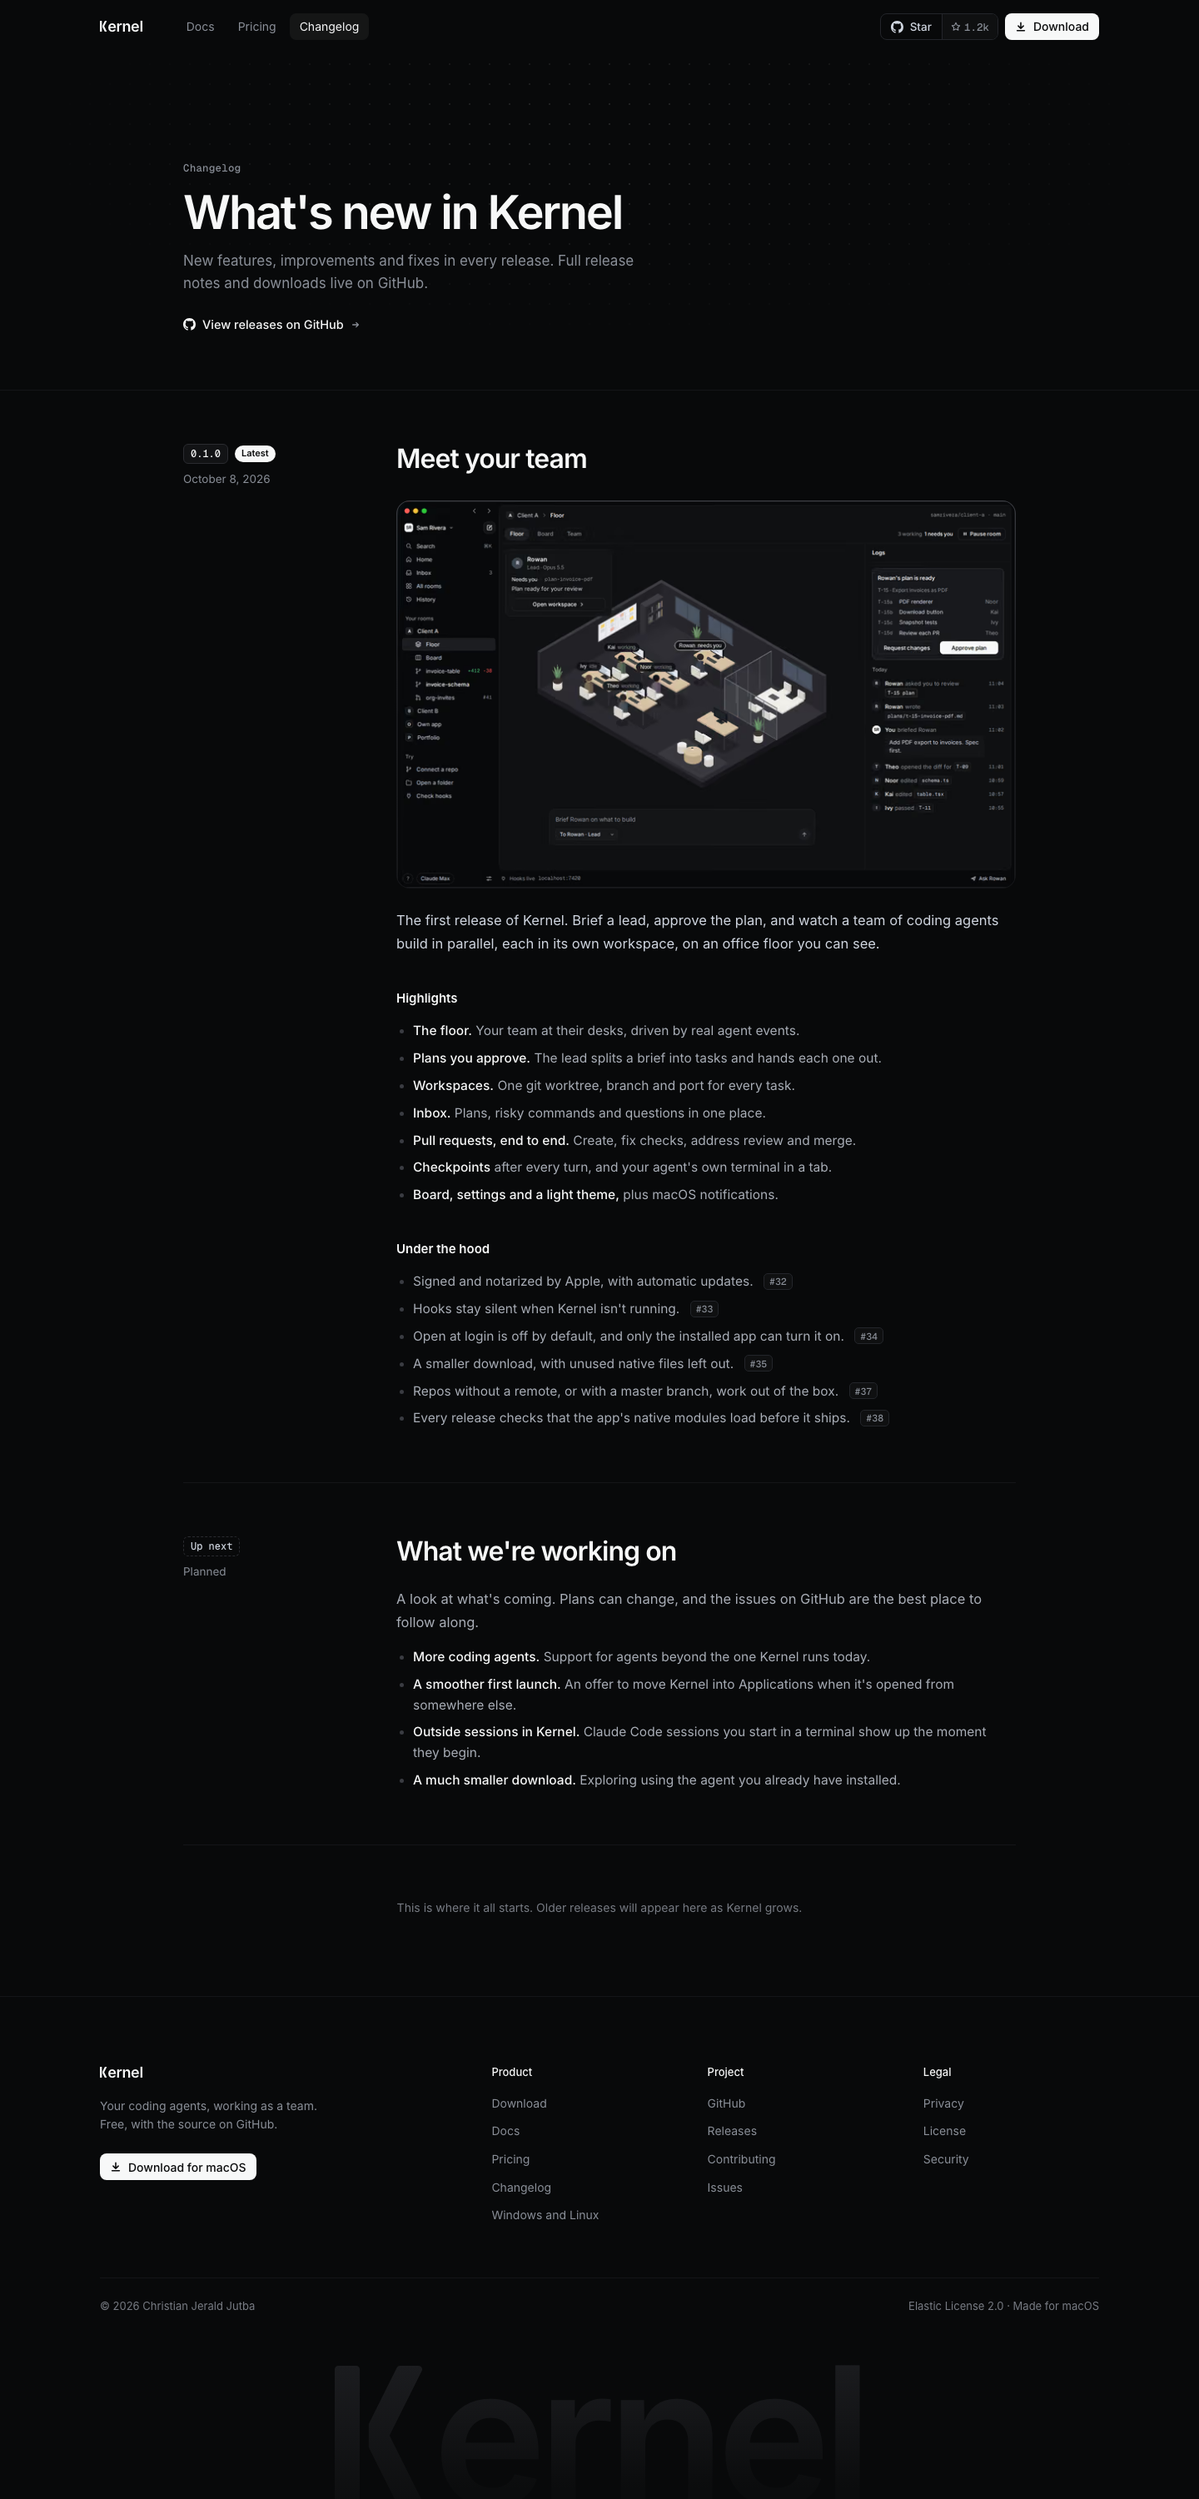
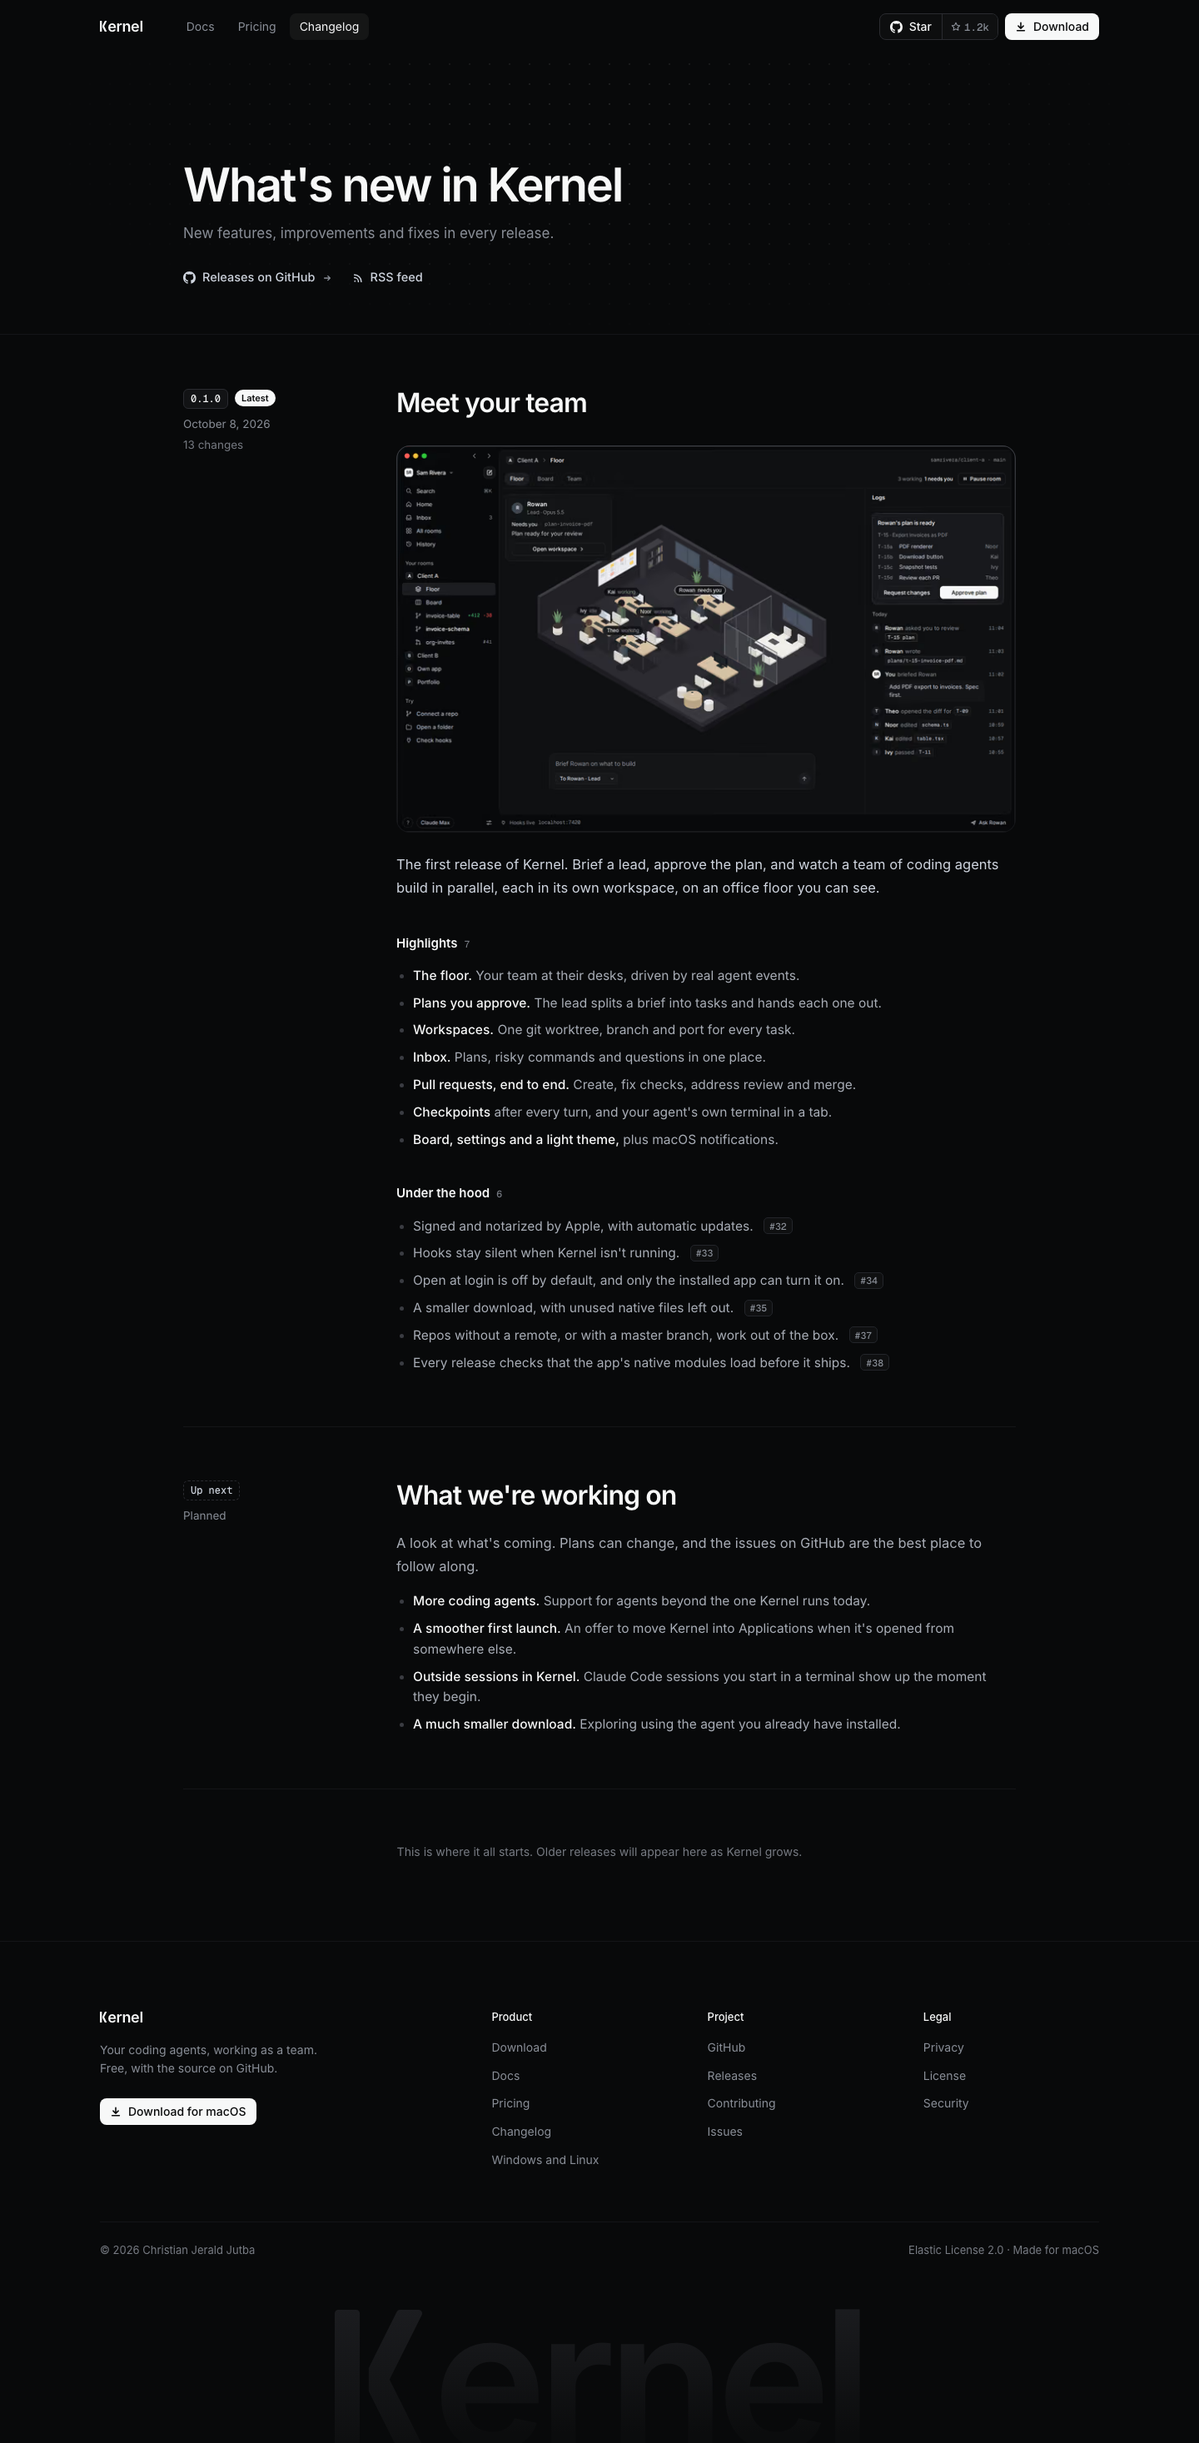
feat(site): a tighter changelog with an RSS feed, and a matching Star button
Changelog:
- A section longer than eight changes shows six and folds the rest behind "Show N more", a native details element, so a long release no longer runs for screens. The page is about 40 percent of its old height.
- On wide screens a release's version and date stay beside it while you scroll, with its number of changes. The version links to its own entry.
- Section headings show their counts.
- The header drops its label and says one line, with links to the releases on GitHub and a new RSS feed at /changelog/rss.xml, which every changelog page advertises.

Nav: the Star button takes the secondary button style at Download's size and font, so the two read as a pair.

diff --git a/site/components/changelog/ChangeList.tsx b/site/components/changelog/ChangeList.tsx
@@ -1,28 +1,61 @@
 import { pullUrl } from '@/lib/links'
 import type { ChangeItem } from '@/lib/schema'
 
-export function ChangeList({ items }: { items: ChangeItem[] }) {
+/** How many changes a section shows before the rest fold behind "Show N more". */
+const SHOWN = 6
+
+function Item({ item }: { item: ChangeItem }) {
   return (
-    <ul className="mt-4">
-      {items.map((item) => (
-        <li key={item.text} className="mt-2 text-list text-ink-3 cl-bullet">
-          {item.lead ? <b className="font-medium text-ink">{item.lead}</b> : null}
-          {item.lead ? ' ' : null}
-          {item.text}
-          {item.pr ? ' ' : null}
-          {item.pr ? (
-            <a
-              href={pullUrl(item.pr)}
-              target="_blank"
-              rel="noopener"
-              aria-label={`Pull request #${item.pr}`}
-              className="ml-2 inline-flex h-5 items-center rounded-prchip border border-line-strong bg-surface-2 px-1.5 align-nudge font-mono text-tag leading-normal font-medium text-muted hover:border-edge-hover hover:text-ink"
-            >
-              #{item.pr}
-            </a>
-          ) : null}
-        </li>
-      ))}
-    </ul>
+    <li className="mt-2 text-list text-ink-3 cl-bullet">
+      {item.lead ? <b className="font-medium text-ink">{item.lead}</b> : null}
+      {item.lead ? ' ' : null}
+      {item.text}
+      {item.pr ? ' ' : null}
+      {item.pr ? (
+        <a
+          href={pullUrl(item.pr)}
+          target="_blank"
+          rel="noopener"
+          aria-label={`Pull request #${item.pr}`}
+          className="ml-2 inline-flex h-5 items-center rounded-prchip border border-line-strong bg-surface-2 px-1.5 align-nudge font-mono text-tag leading-normal font-medium text-muted hover:border-edge-hover hover:text-ink"
+        >
+          #{item.pr}
+        </a>
+      ) : null}
+    </li>
+  )
+}
+
+/**
+ * A section's changes. Past `SHOWN`, the rest wait behind a "Show N more" button, a native details element, so it
+ * needs no script and the browser's find in page still reaches the folded changes. `fold={false}` lists them all.
+ */
+export function ChangeList({ items, fold = true }: { items: ChangeItem[]; fold?: boolean }) {
+  const folds = fold && items.length > SHOWN + 2
+  const shown = folds ? items.slice(0, SHOWN) : items
+  const rest = folds ? items.slice(SHOWN) : []
+  return (
+    <>
+      <ul className="mt-4">
+        {shown.map((item) => (
+          <Item key={item.text} item={item} />
+        ))}
+      </ul>
+      {rest.length ? (
+        <details className="group">
+          <summary className="mt-4 inline-flex h-8 cursor-pointer items-center gap-1.5 rounded-md border border-line-strong px-3 text-ui font-medium text-ink-2 transition-colors group-open:hidden hover:border-edge-hover hover:text-ink">
+            Show {rest.length} more
+            <svg width="12" height="12" viewBox="0 0 16 16" aria-hidden="true" fill="none" stroke="currentColor" strokeWidth="1.6" strokeLinecap="round" strokeLinejoin="round" className="text-muted">
+              <path d="m4 6 4 4 4-4" />
+            </svg>
+          </summary>
+          <ul>
+            {rest.map((item) => (
+              <Item key={item.text} item={item} />
+            ))}
+          </ul>
+        </details>
+      ) : null}
+    </>
   )
 }

diff --git a/site/components/changelog/ReleaseEntry.tsx b/site/components/changelog/ReleaseEntry.tsx
@@ -6,11 +6,14 @@ import { ChangeList } from './ChangeList'
 
 const versionPill = 'inline-flex h-6 items-center rounded-chip border px-2 font-mono text-micro leading-normal font-medium'
 
-/** The two-column entry shared by releases and Up next: meta on the left, the notes on the right. */
+/**
+ * The two-column entry shared by releases and Up next: meta on the left, the notes on the right. On wide screens the
+ * meta stays in view beside a long entry, under the sticky nav.
+ */
 export function EntryShell({ titleId, meta, children }: { titleId: string; meta: ReactNode; children: ReactNode }) {
   return (
     <article aria-labelledby={titleId} className="grid grid-entry gap-14 border-b border-line-faint py-16 max-nav:grid-cols-1 max-nav:gap-4">
-      <div>{meta}</div>
+      <div className="nav:sticky nav:top-24 nav:self-start">{meta}</div>
       <div>{children}</div>
     </article>
   )
@@ -26,13 +29,17 @@ export function VersionPill({ next, children }: { next?: boolean; children: Reac
 
 export function ReleaseEntry({ release, latest }: { release: Release; latest: boolean }) {
   const titleId = `v${release.version.replaceAll('.', '')}`
+  const changes = release.sections.reduce((n, s) => n + s.items.length, 0)
   return (
     <EntryShell
       titleId={titleId}
       meta={
         <>
           <div className="flex items-center gap-2">
-            <VersionPill>{release.version}</VersionPill>
+            {/* The version links to its own entry, so a release can be shared. */}
+            <a href={`#${titleId}`} aria-label={`Link to Kernel ${release.version}`} className="rounded-chip transition-opacity hover:opacity-80">
+              <VersionPill>{release.version}</VersionPill>
+            </a>
             {latest ? (
               <span className="inline-flex h-5 items-center rounded-pill bg-ink px-2 text-badge font-semibold text-canvas">
                 Latest
@@ -42,10 +49,13 @@ export function ReleaseEntry({ release, latest }: { release: Release; latest: bo
           <time dateTime={release.date} className="mt-2 block text-label text-muted">
             {formatDate(release.date)}
           </time>
+          <p className="mt-1 text-label text-faint">
+            {changes} {changes === 1 ? 'change' : 'changes'}
+          </p>
         </>
       }
     >
-      <h2 id={titleId} className="text-entry-title">
+      <h2 id={titleId} className="scroll-mt-8 text-entry-title">
         {release.title}
       </h2>
       {release.image ? (
@@ -59,7 +69,10 @@ export function ReleaseEntry({ release, latest }: { release: Release; latest: bo
       {release.intro ? <p className="mt-6 text-intro text-ink-2">{release.intro}</p> : null}
       {release.sections.map((section) => (
         <section key={section.title}>
-          <h3 className="mt-10 text-body font-semibold">{section.title}</h3>
+          <h3 className="mt-10 flex items-baseline gap-2 text-body font-semibold">
+            {section.title}
+            <span className="font-mono text-tag font-medium text-faint">{section.items.length}</span>
+          </h3>
           <ChangeList items={section.items} />
         </section>
       ))}

diff --git a/site/components/changelog/ChangelogHeader.tsx b/site/components/changelog/ChangelogHeader.tsx
@@ -1,35 +1,43 @@
-import { Eyebrow } from '@/components/ui/Eyebrow'
 import { ArrowIcon, GitHubIcon } from '@/components/ui/icons'
 import { RELEASES_URL } from '@/lib/links'
+
+function FeedIcon() {
+  return (
+    <svg width="14" height="14" viewBox="0 0 16 16" aria-hidden="true" fill="none" stroke="currentColor" strokeWidth="1.6" strokeLinecap="round">
+      <path d="M3 3.5a9.5 9.5 0 0 1 9.5 9.5M3 7.5A5.5 5.5 0 0 1 8.5 13" />
+      <circle cx="3.75" cy="12.25" r="1" fill="currentColor" stroke="none" />
+    </svg>
+  )
+}
+
+const link = 'inline-flex items-center gap-2 text-link font-medium text-ink-2 transition-colors hover:text-white'
 
 /** `page` and `pages` add a page count under the lead on pages after the first. */
 export function ChangelogHeader({ page = 1, pages = 1 }: { page?: number; pages?: number }) {
   return (
-    <section id="top" aria-labelledby="changelog-title" className="relative border-b border-line-faint pt-32 pb-16">
+    <section id="top" aria-labelledby="changelog-title" className="relative border-b border-line-faint pt-32 pb-14">
       <div aria-hidden="true" className="pointer-events-none absolute inset-x-0 top-0 h-130 bg-dots-hero" />
       <div className="relative mx-auto max-w-262 px-6">
-        <Eyebrow>Changelog</Eyebrow>
-        <h1 id="changelog-title" className="mt-4 text-changelog-title">
+        <h1 id="changelog-title" className="text-changelog-title">
           What&apos;s new in Kernel
         </h1>
-        <p className="mt-4 max-w-140 text-lead text-muted">
-          New features, improvements and fixes in every release. Full release notes and downloads live on GitHub.
-        </p>
+        <p className="mt-4 max-w-140 text-lead text-muted">New features, improvements and fixes in every release.</p>
         {page > 1 ? (
           <p className="mt-3 text-ui text-faint">
             Page {page} of {pages}
           </p>
         ) : null}
-        <a
-          href={RELEASES_URL}
-          target="_blank"
-          rel="noopener"
-          className="mt-6 inline-flex items-center gap-2 text-link font-medium text-ink hover:text-white"
-        >
-          <GitHubIcon size={15} />
-          View releases on GitHub
-          <ArrowIcon className="text-muted" />
-        </a>
+        <div className="mt-7 flex flex-wrap items-center gap-x-6 gap-y-3">
+          <a href={RELEASES_URL} target="_blank" rel="noopener" className={link}>
+            <GitHubIcon size={15} />
+            Releases on GitHub
+            <ArrowIcon className="text-muted" />
+          </a>
+          <a href="/changelog/rss.xml" className={link}>
+            <FeedIcon />
+            RSS feed
+          </a>
+        </div>
       </div>
     </section>
   )

diff --git a/site/app/changelog/rss.xml/route.ts b/site/app/changelog/rss.xml/route.ts
@@ -1,0 +1,53 @@
+import { changelogPageHref, publishedChangelog, RELEASES_PER_PAGE } from '@/content/changelog'
+import { pullUrl } from '@/lib/links'
+import type { Release } from '@/lib/schema'
+import { SITE_URL } from '@/lib/site'
+
+// /changelog/rss.xml: every published release as an RSS item, newest first, linking to its entry on the changelog.
+// It follows the changelog: a release shows here once GitHub has published it (KERNEL-412).
+export const revalidate = 3600
+
+const escape = (s: string) => s.replace(/&/g, '&amp;').replace(/</g, '&lt;').replace(/>/g, '&gt;').replace(/"/g, '&quot;')
+
+function body(release: Release): string {
+  const parts: string[] = []
+  if (release.intro) parts.push(`<p>${escape(release.intro)}</p>`)
+  for (const section of release.sections) {
+    parts.push(`<h3>${escape(section.title)}</h3><ul>`)
+    for (const item of section.items) {
+      const lead = item.lead ? `<b>${escape(item.lead)}</b> ` : ''
+      const pr = item.pr ? ` <a href="${pullUrl(item.pr)}">#${item.pr}</a>` : ''
+      parts.push(`<li>${lead}${escape(item.text)}${pr}</li>`)
+    }
+    parts.push('</ul>')
+  }
+  return parts.join('')
+}
+
+export async function GET() {
+  const { releases } = await publishedChangelog()
+  const items = releases.map((release, i) => {
+    const url = `${SITE_URL}${changelogPageHref(Math.floor(i / RELEASES_PER_PAGE) + 1)}#v${release.version.replaceAll('.', '')}`
+    return [
+      '<item>',
+      `<title>${escape(release.title === `Kernel ${release.version}` ? release.title : `Kernel ${release.version}: ${release.title}`)}</title>`,
+      `<link>${url}</link>`,
+      `<guid isPermaLink="false">kernel-${release.version}</guid>`,
+      `<pubDate>${new Date(`${release.date}T00:00:00Z`).toUTCString()}</pubDate>`,
+      `<description><![CDATA[${body(release)}]]></description>`,
+      '</item>'
+    ].join('')
+  })
+  const xml = [
+    '<?xml version="1.0" encoding="UTF-8"?>',
+    '<rss version="2.0" xmlns:atom="http://www.w3.org/2005/Atom"><channel>',
+    '<title>Kernel changelog</title>',
+    `<link>${SITE_URL}/changelog</link>`,
+    `<atom:link href="${SITE_URL}/changelog/rss.xml" rel="self" type="application/rss+xml" />`,
+    '<description>New features, improvements and fixes in every Kernel release.</description>',
+    '<language>en</language>',
+    ...items,
+    '</channel></rss>'
+  ].join('\n')
+  return new Response(xml, { headers: { 'Content-Type': 'application/rss+xml; charset=utf-8' } })
+}

diff --git a/site/components/ui/StarButton.tsx b/site/components/ui/StarButton.tsx
@@ -3,7 +3,10 @@ import { getStarCount, STAR_COUNT_MIN } from '@/lib/github'
 import { REPO_URL } from '@/lib/links'
 import { GitHubIcon, StarIcon } from './icons'
 
-/** The split Star button. The count shows only from STAR_COUNT_MIN stars, and never as a made-up number. */
+/**
+ * The split Star button, styled as the secondary Button at the md size so it matches Download beside it. The count shows
+ * only from STAR_COUNT_MIN stars, and never as a made-up number.
+ */
 export function StarButtonView({ count, className = '' }: { count: number | null; className?: string }) {
   const show = count !== null && count >= STAR_COUNT_MIN
   return (
@@ -11,16 +14,16 @@ export function StarButtonView({ count, className = '' }: { count: number | null
       href={REPO_URL}
       target="_blank"
       rel="noopener"
-      className={`group inline-flex h-8 items-stretch overflow-hidden rounded-md border border-line-strong text-label font-medium text-ink-2 hover:border-edge-hover hover:text-white ${className}`}
+      className={`group inline-flex h-8 items-stretch overflow-hidden rounded-md border border-edge bg-white/2 text-ui font-medium text-ink transition-colors hover:border-edge-hover hover:text-white ${className}`}
     >
-      <span className="inline-flex items-center gap-2 px-3 group-hover:bg-raised">
+      <span className="inline-flex items-center gap-2 px-3 transition-colors group-hover:bg-white/6">
         <GitHubIcon size={15} />
         Star
         {/* The name reads "Star Kernel on GitHub, 1.2k stars" and still contains the visible text. */}
         <span className="sr-only"> Kernel on GitHub{show ? ',' : ''}</span>
       </span>
       {show ? (
-        <span className="inline-flex items-center gap-1 border-l border-line-strong bg-surface-2 px-2.5 font-mono text-count font-medium text-muted">
+        <span className="inline-flex items-center gap-1 border-l border-edge bg-surface-2 px-2.5 font-mono text-count font-medium text-muted">
           <StarIcon />
           {formatStars(count)}
           <span className="sr-only"> stars</span>

diff --git a/site/app/changelog/page/[page]/page.tsx b/site/app/changelog/page/[page]/page.tsx
@@ -16,11 +16,12 @@ export function generateStaticParams() {
 
 export async function generateMetadata({ params }: Props): Promise<Metadata> {
   const page = parse((await params).page)
-  return pageMetadata({
+  const base = pageMetadata({
     title: `Changelog, page ${page} · Kernel`,
     description: 'Earlier Kernel releases: new features, improvements and fixes.',
     path: changelogPageHref(page)
   })
+  return { ...base, alternates: { ...base.alternates, types: { 'application/rss+xml': '/changelog/rss.xml' } } }
 }
 
 export default async function ChangelogOlderPage({ params }: Props) {

diff --git a/site/app/changelog/page.tsx b/site/app/changelog/page.tsx
@@ -7,7 +7,8 @@ import { pageMetadata } from '@/lib/site'
 const title = 'Changelog · Kernel'
 const description = 'New features, improvements and fixes in every Kernel release.'
 
-export const metadata: Metadata = pageMetadata({ title, description, path: '/changelog' })
+const base = pageMetadata({ title, description, path: '/changelog' })
+export const metadata: Metadata = { ...base, alternates: { ...base.alternates, types: { 'application/rss+xml': '/changelog/rss.xml' } } }
 
 export default async function ChangelogPage() {
   const data = await changelogPage(1)

diff --git a/site/components/changelog/UpNext.tsx b/site/components/changelog/UpNext.tsx
@@ -19,7 +19,7 @@ export function UpNext({ data }: { data: UpNextData }) {
         {data.title}
       </h2>
       <p className="mt-6 text-intro text-ink-3">{data.intro}</p>
-      <ChangeList items={data.items} />
+      <ChangeList items={data.items} fold={false} />
     </EntryShell>
   )
 }
